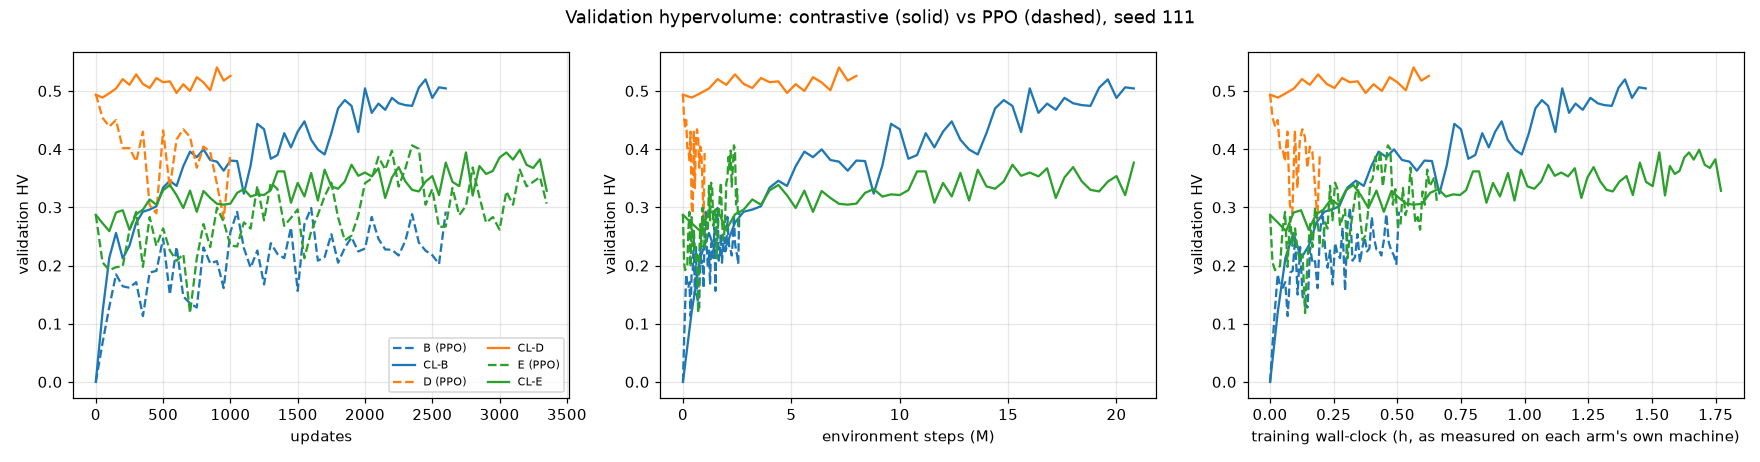
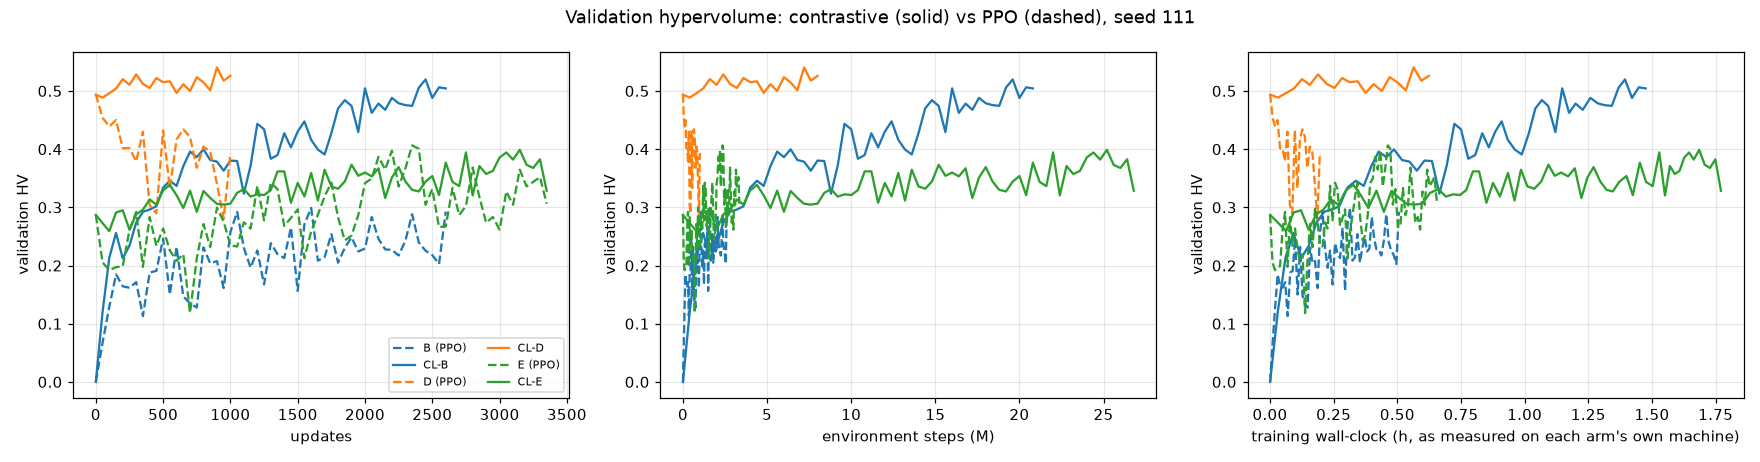
contrastive v3: env-step totals from the longest CL log (E arms showed '-')
Claude-Session: https://claude.ai/code/session_01Rcu6f737di34xSocjiJkEU

diff --git a/tools/analyze_contrastive_v3.py b/tools/analyze_contrastive_v3.py
@@ -74,11 +74,8 @@ def cl_log(r):
 def steps_per_update(cl_runs):
     """Environment steps per update of CL (from its log) and of PPO (CL / K): same instances at the same update."""
     k = json.loads(MANIFEST.read_text())["constants"]["cl_k"]
-    for r in cl_runs.values():
-        lg = cl_log(r)
-        if lg:
-            return np.array([e["cl"]["env_steps"] for e in lg], float), k
-    return None, k
+    lg = max((cl_log(r) for r in cl_runs.values()), key=len, default=[])   # the longest log covers every budget
+    return (np.array([e["cl"]["env_steps"] for e in lg], float) if lg else None), k
 
 
 def steps_at(per_update, u):

diff --git a/results/contrastive_v3.md b/results/contrastive_v3.md
@@ -29,8 +29,8 @@ PPO counterparts ran on NVIDIA L4, 23034 MiB, 595.91.07 (--jobs 2); the CL arms 
 | CL-B (contrastive, scratch) | 2600 | 0.000 | 0.520 | 2450 | 1.39 | 0.504 | 1.48 | 2.04 | 20.80 M |
 | D (PPO from the distilled student) | 1000 | 0.494 | 0.494 | 0 | 0.00 there ≈ 0.00 here | 0.393 | 0.20 there ≈ 0.26 here | 0.70 | 1.00 M |
 | CL-D (contrastive from D's update-0 network) | 1000 | 0.494 | 0.540 | 900 | 0.56 | 0.526 | 0.62 | 2.25 | 8.00 M |
-| E (PPO from the naive merge) | 3350 | 0.287 | 0.407 | 2350 | 0.46 there ≈ 0.61 here | 0.306 | 0.66 there ≈ 0.87 here | 0.70 | - |
-| CL-E (contrastive from the naive merge) | 3350 | 0.287 | 0.399 | 3150 | 1.69 | 0.328 | 1.77 | 1.90 | - |
+| E (PPO from the naive merge) | 3350 | 0.287 | 0.407 | 2350 | 0.46 there ≈ 0.61 here | 0.306 | 0.66 there ≈ 0.87 here | 0.70 | 3.35 M |
+| CL-E (contrastive from the naive merge) | 3350 | 0.287 | 0.399 | 3150 | 1.69 | 0.328 | 1.77 | 1.90 | 26.80 M |
 
 ### Validation HV at equal updates
 
